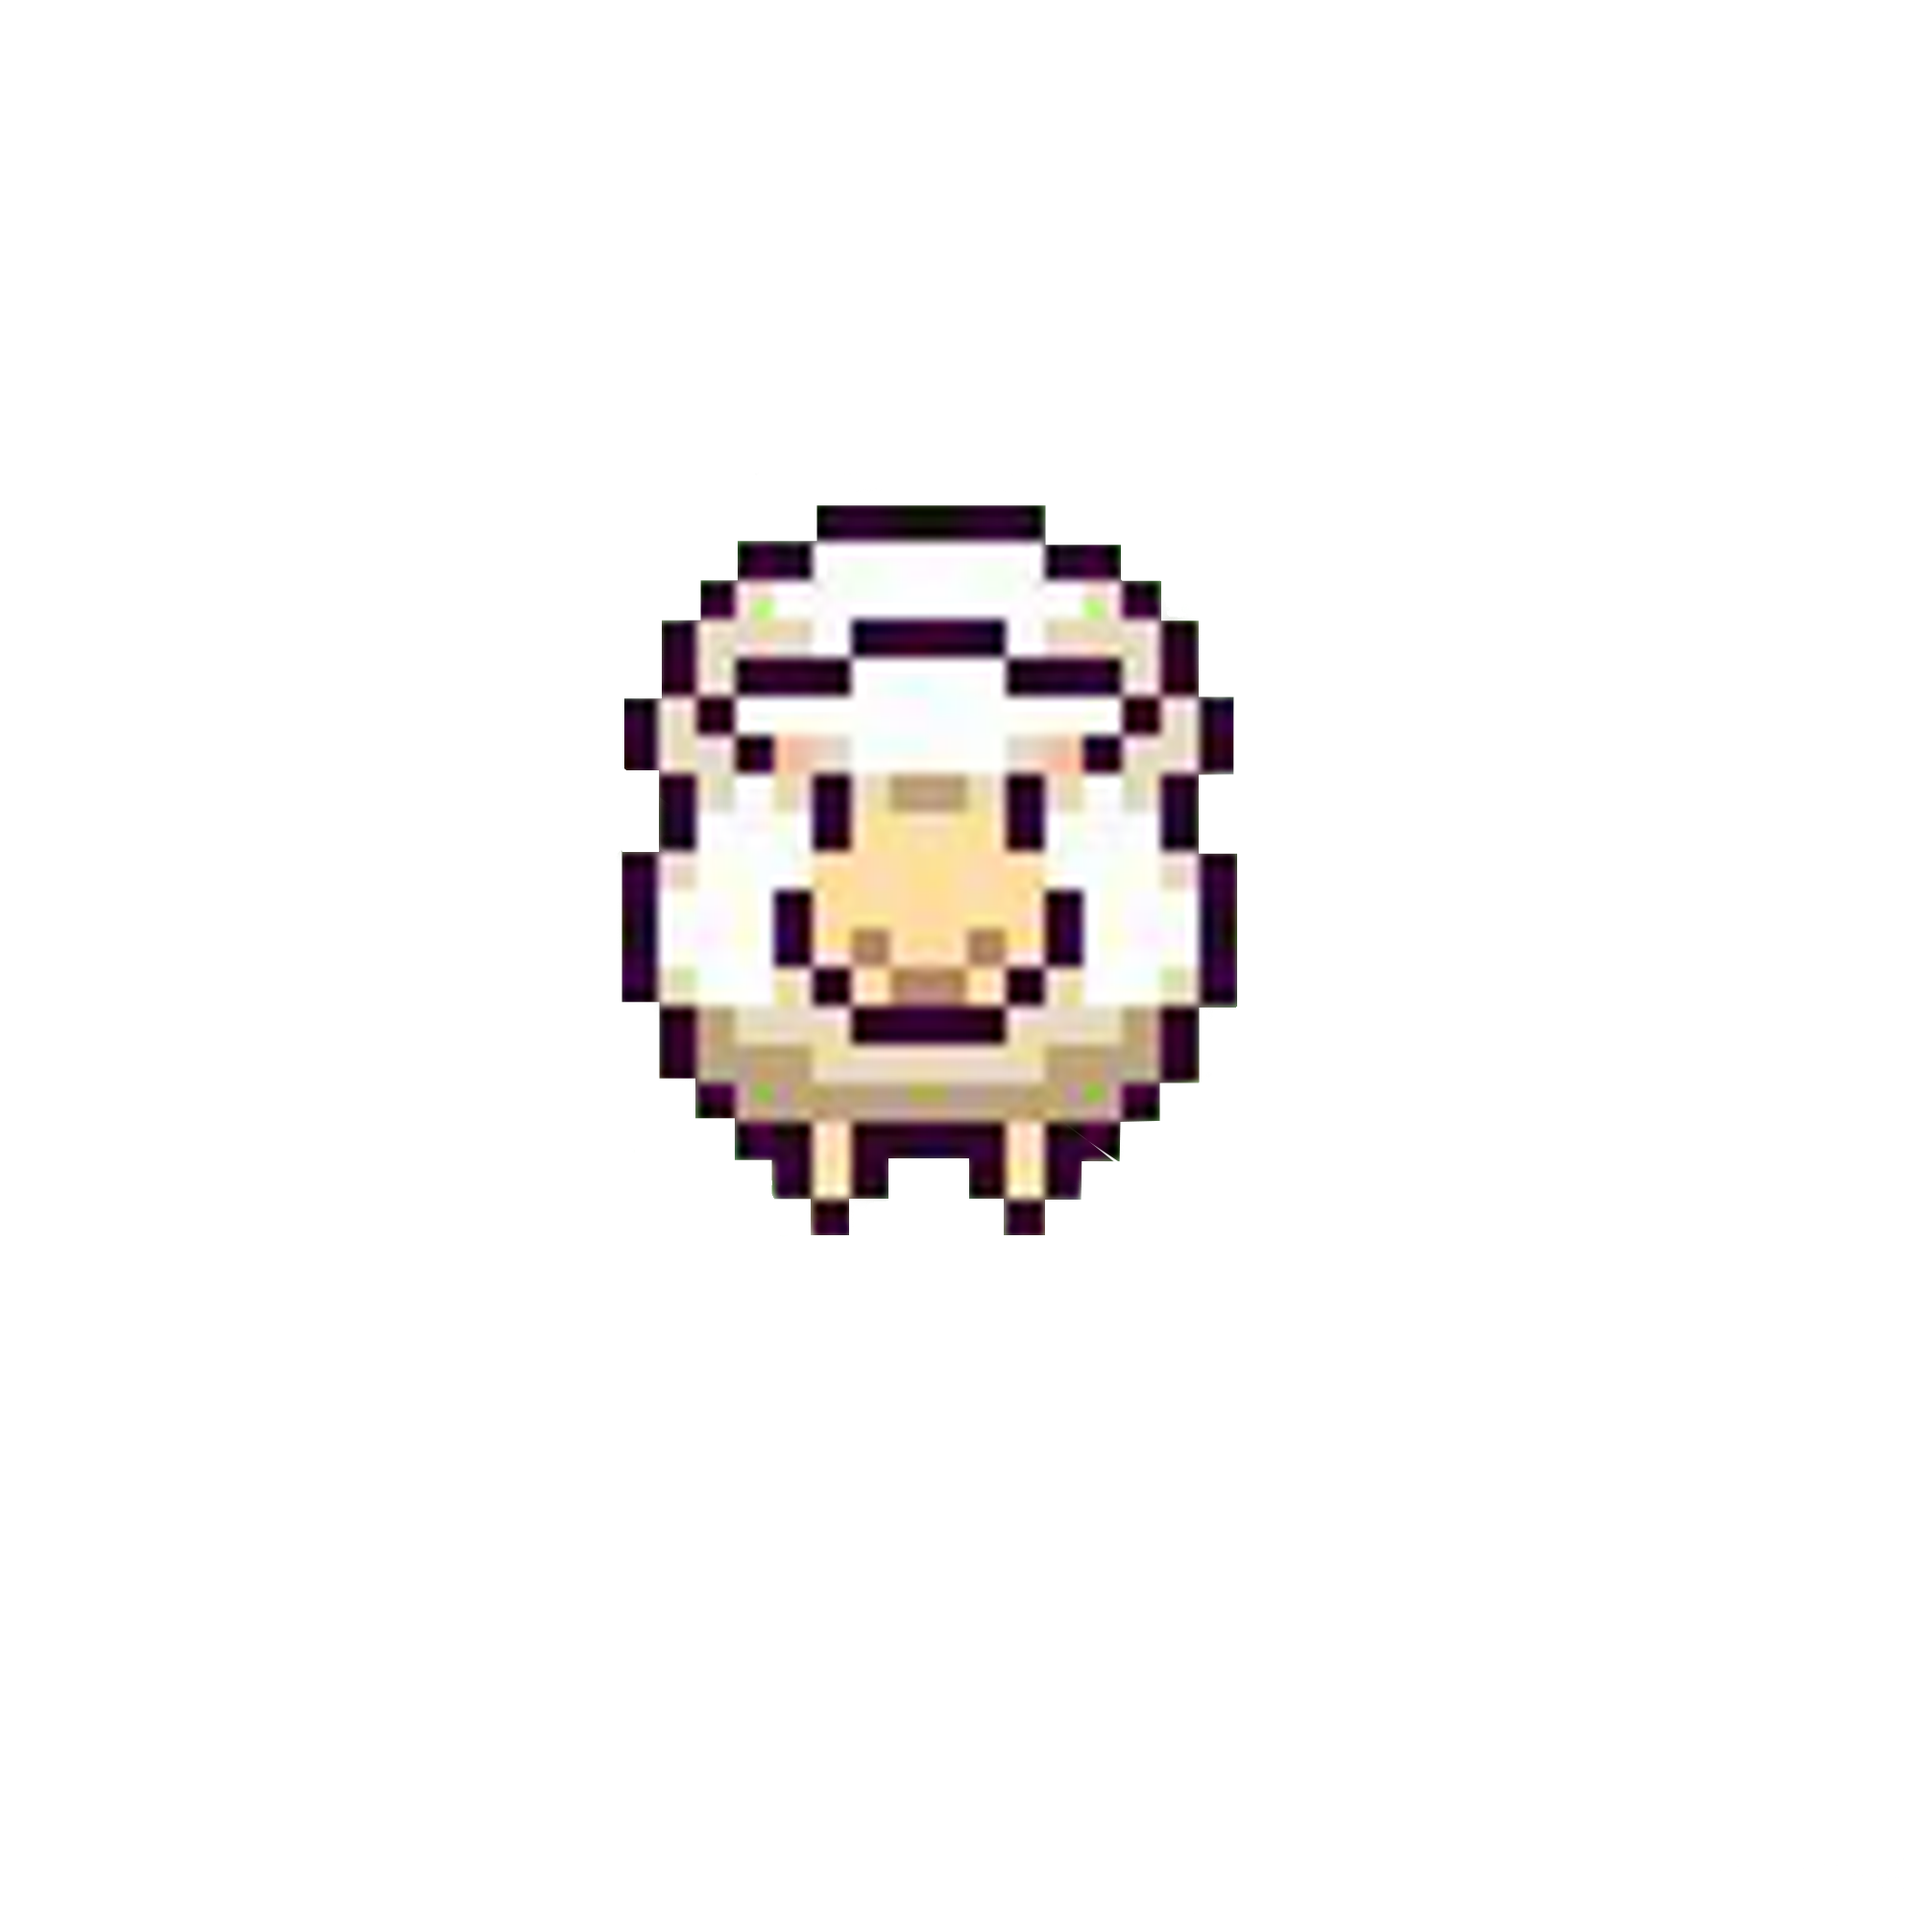
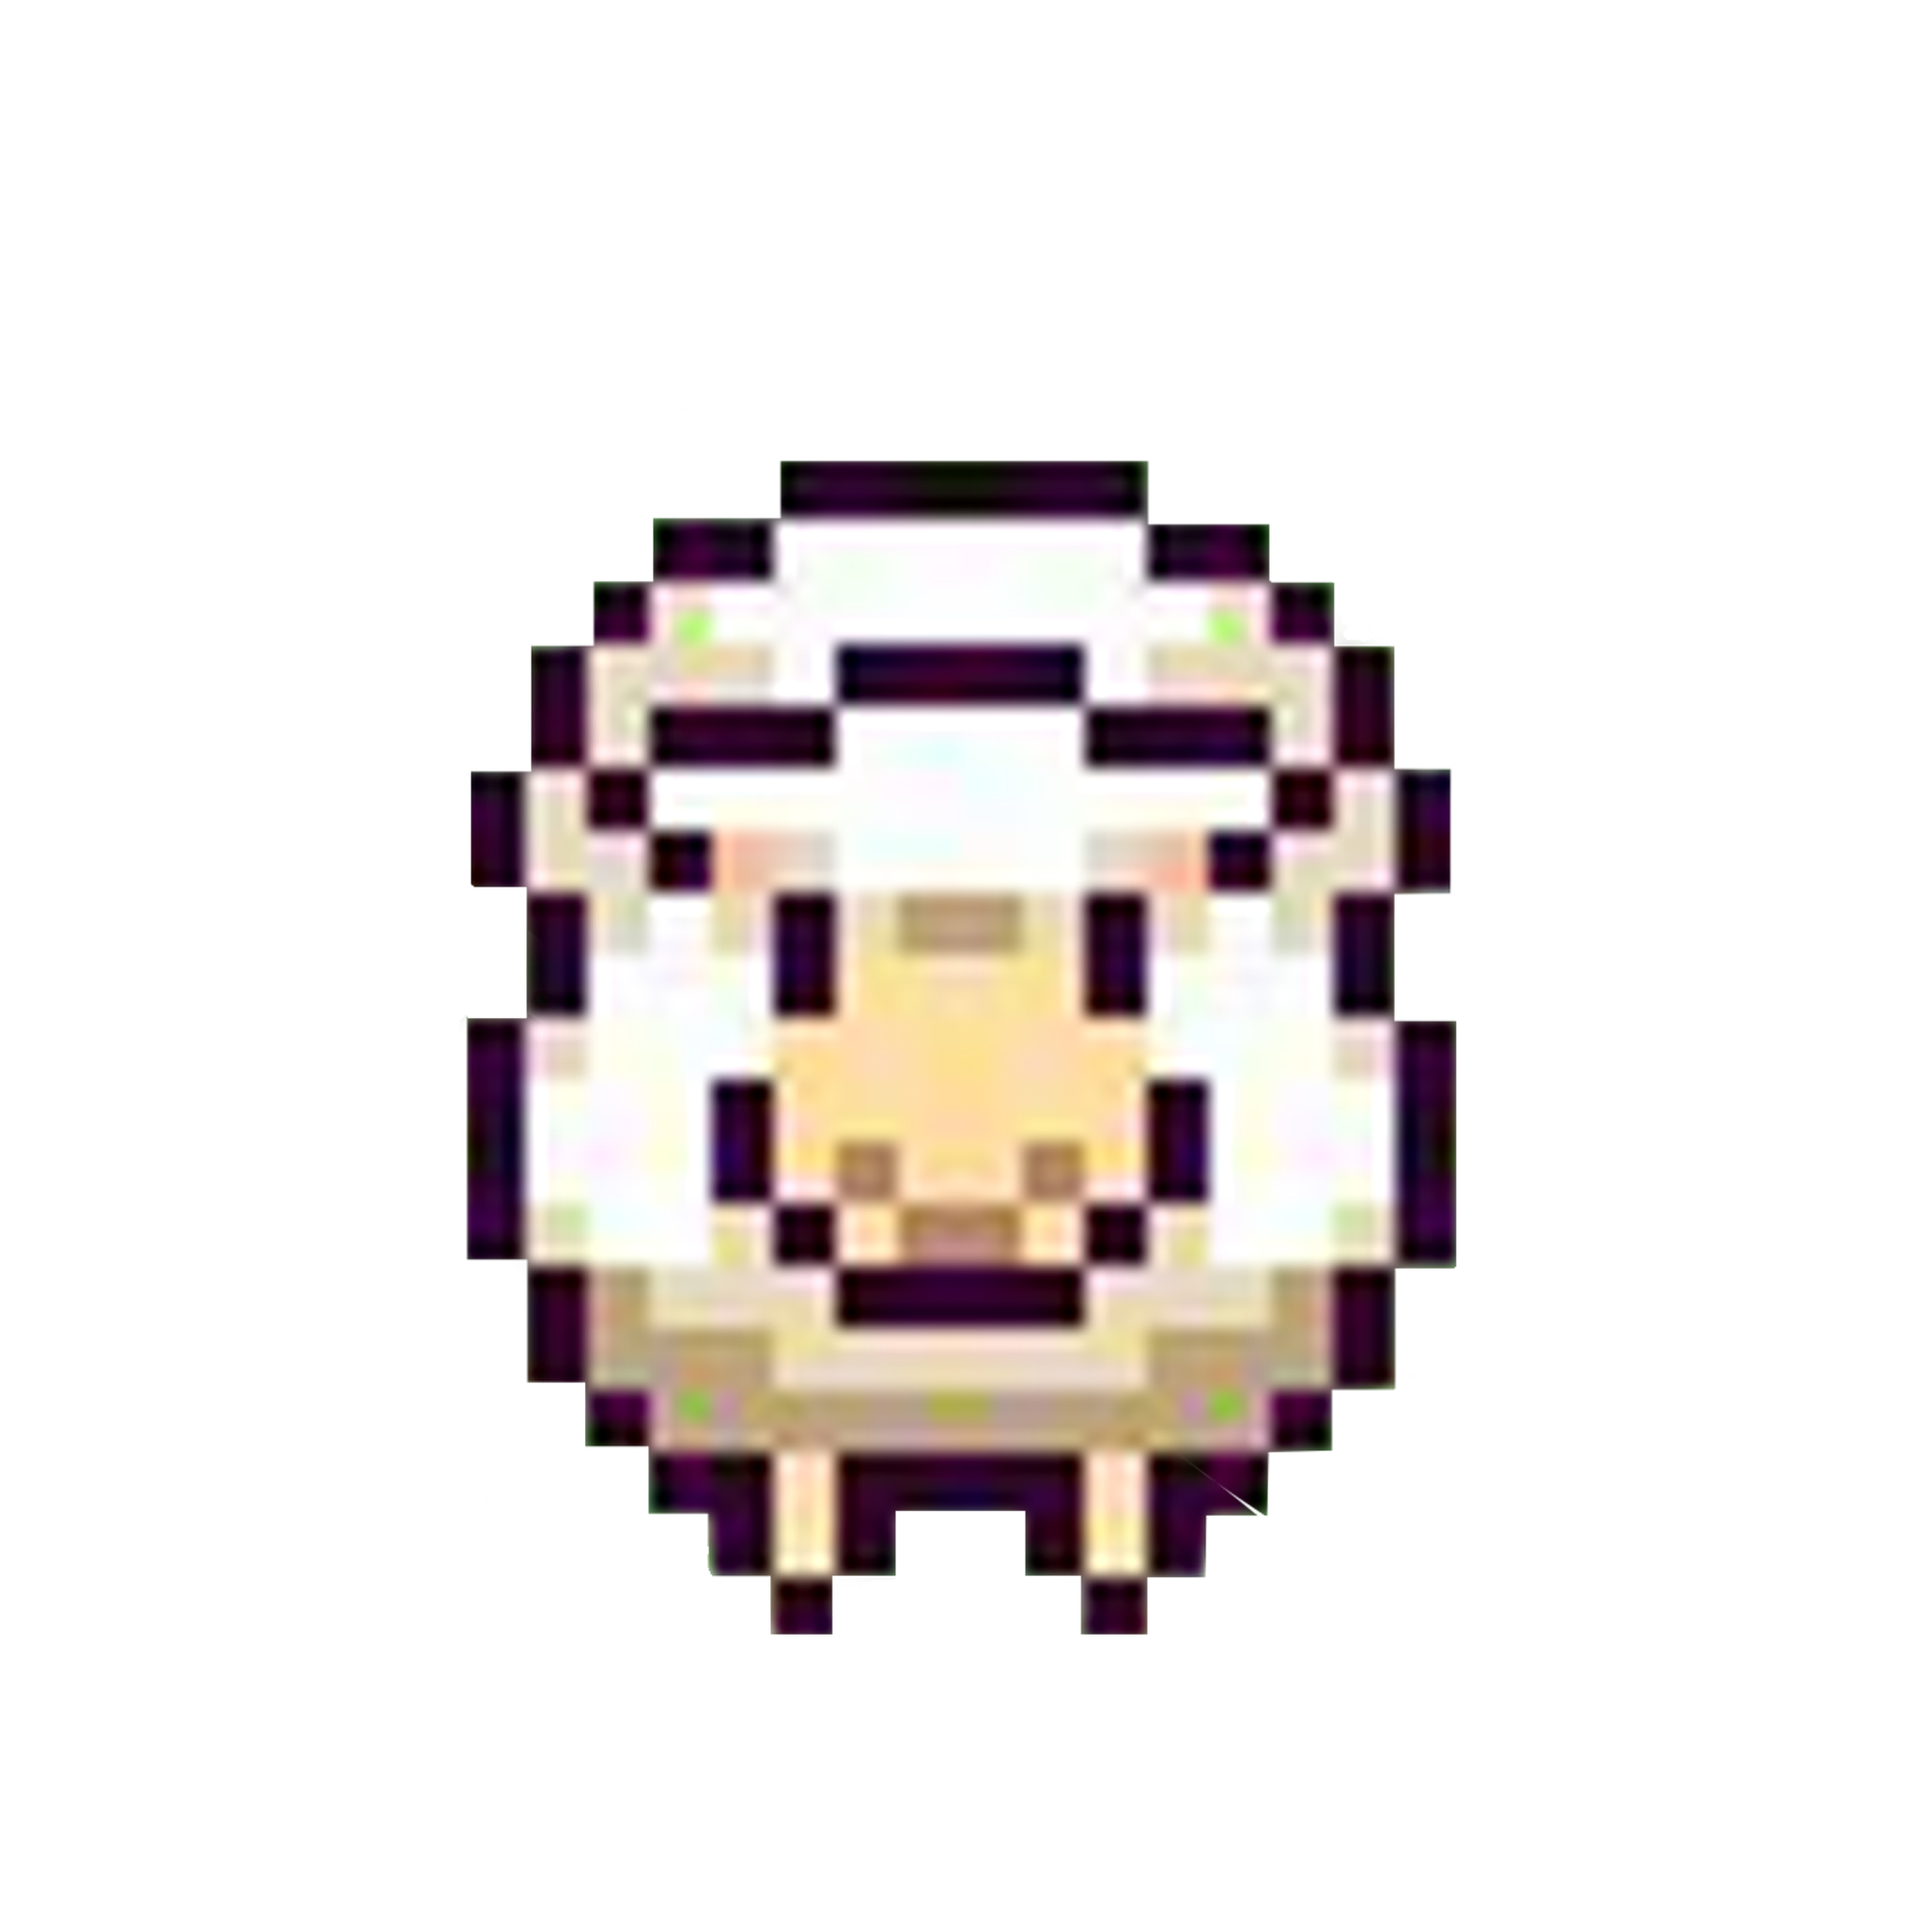
changed the sheep sprite size + reworked the  position because it wasn't centered

Changed region(s): [[0.217, 0.217, 0.775, 0.868]]

diff --git a/variations_jam/js/variations/blue-variation.js b/variations_jam/js/variations/blue-variation.js
@@ -33,8 +33,8 @@ let cols, rows; //columns and rows
 //player values
 let bPlayer = {
     x: 25,
-    y: 450,
-    size: 100,
+    y: 475,
+    size: 50,
     speed: 3,
     img: null,
 }
@@ -60,7 +60,7 @@ function blueSetup() {
         blues.push(createFlowers(squares[i + flowerCount * 2]));
         lilacs.push(createFlowers(squares[i + flowerCount * 3]));
         pebbles.push(createFlowers(squares[i + flowerCount * 4]));
-        trees.push(createFlowers(squares[i + 18 * 5]));
+        trees.push(createFlowers(squares[i + 10 * 5]));
     }
 }
 
@@ -322,9 +322,9 @@ function moveBluePlayer(){
     }
 
     //limit horizontal movement  within the canvas
-    bPlayer.x = constrain(bPlayer.x, bPlayer.size / 2, 475 - bPlayer.size / 2);
+    bPlayer.x = constrain(bPlayer.x, bPlayer.size / 2, width - bPlayer.size / 2);
     //limit vertical movement  within the canvas
-    bPlayer.y = constrain(bPlayer.y, bPlayer.size / 2, 475 - bPlayer.size / 2);
+    bPlayer.y = constrain(bPlayer.y, bPlayer.size / 2, width - bPlayer.size / 2);
 }
 
 //draws theb blue player
@@ -332,6 +332,7 @@ function drawBluePlayer(){
     push();
     noStroke();
     noFill();
+    imageMode(CENTER);
     image(bPlayer.img, bPlayer.x, bPlayer.y, bPlayer.size, bPlayer.size);
     pop();
 }

diff --git a/variations_jam/js/script.js b/variations_jam/js/script.js
@@ -9,7 +9,7 @@
 
 "use strict";
 
-let state = "blue-variation"; // menu
+let state = "menu";
 
 //speech data
 let speech = undefined;
